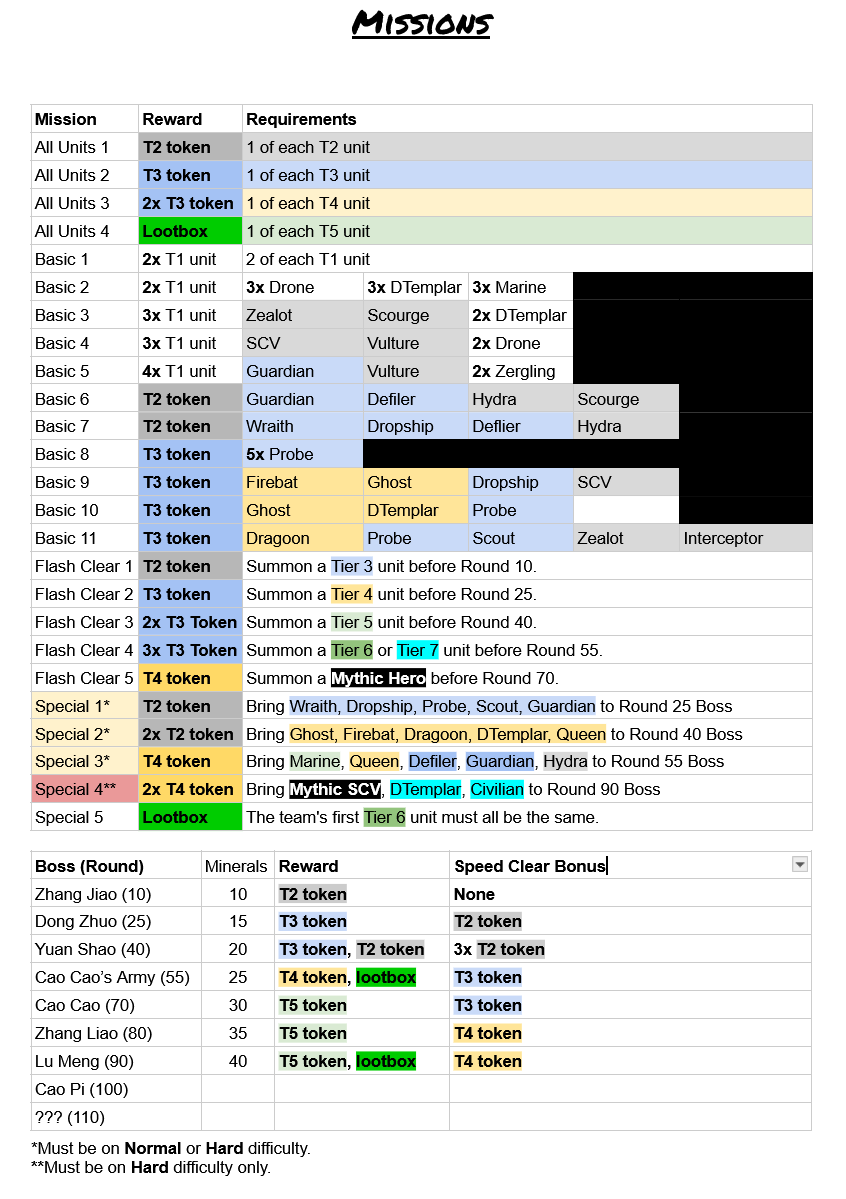
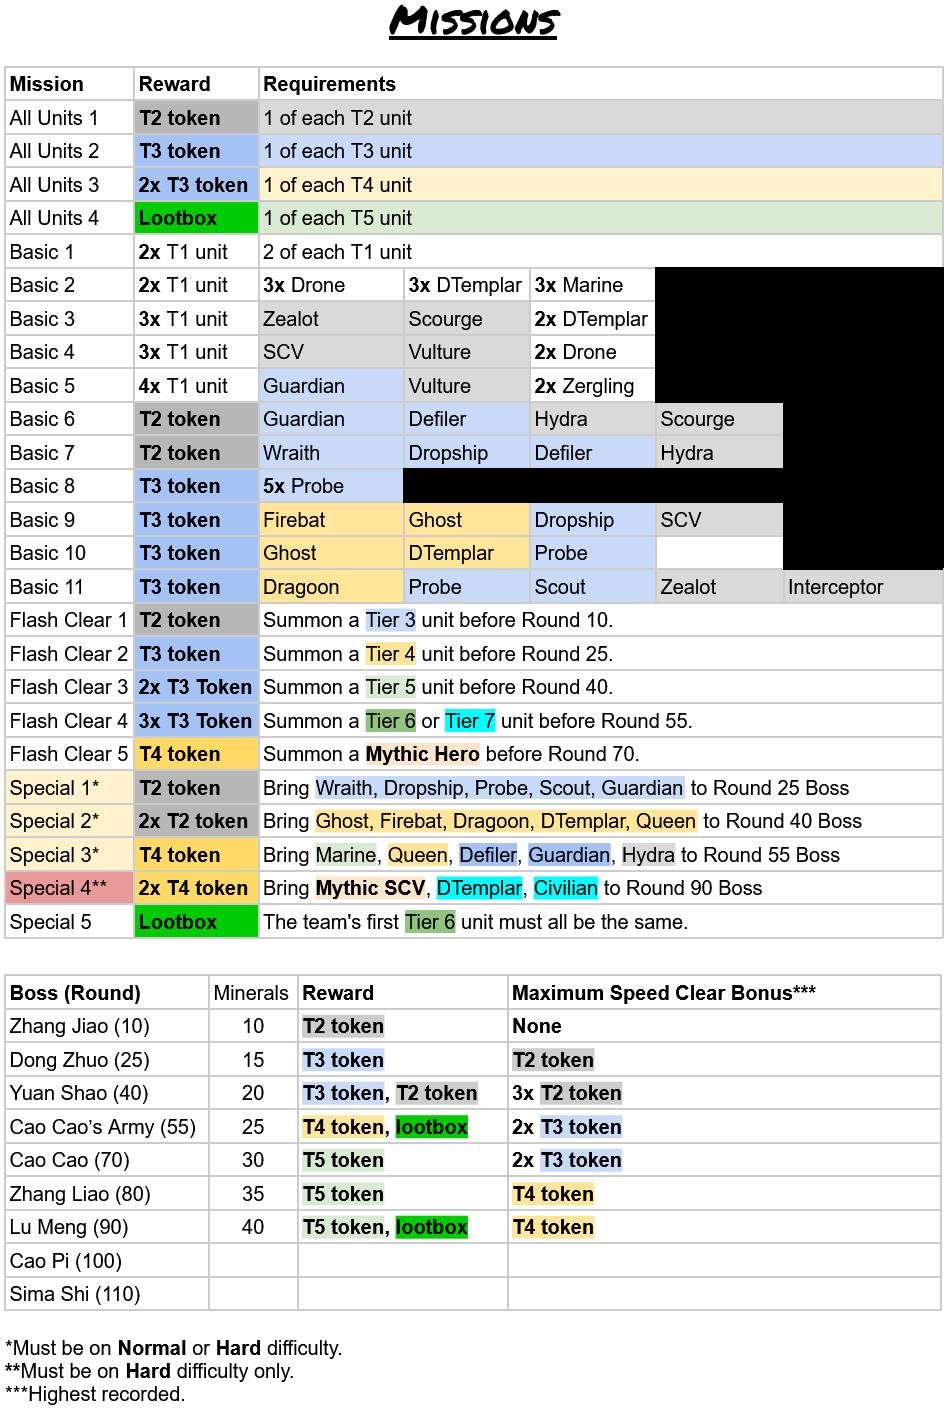
Added DT 2 Immortal Item + Update Keikaku's Charts

diff --git a/T7-Mythic-Immortal-Combinations/README.md b/T7-Mythic-Immortal-Combinations/README.md
@@ -246,7 +246,12 @@ It's very difficult to build immortals because it requires a specific loot box i
 ![](/media/immortal-hydra.png)
 
 ## 7. Immortal Darker Dark Templar
-No Data
+- 1x T7 Zealot
+- 1x T6 Drone
+- 1x T5 Marine + 1x T5 Ursadon (Bear)
+- 2x T2 Hydralisk
+- 2x T1 Drone, 2x T1 Zergling
+- Lootbox Item Required: Puma (Bengalass)
 
 ## 8. Immortal Zerg Kerrigan (Immortal Zerrigan)
 - 1x T7 Zerg Kerrigan + 1x T7 Dark Templar
@@ -281,3 +286,8 @@ I'll probably be going for the No.7 Upgrade, No.2 Upgrade, and No.4 Upgrade at l
 - No.6 - Hydralisk: Wei Kingdom attack power upgrade +1
 - No.7 - Darker Dark Templar: No Data
 - No.8 - Zerg Kerrigan: 10% Chance to resurrect upon unit death
+
+# Keikaku's Hero Summary Chart
+Credits to Keikaku
+
+![](/media/keikakus-herosummary.png)